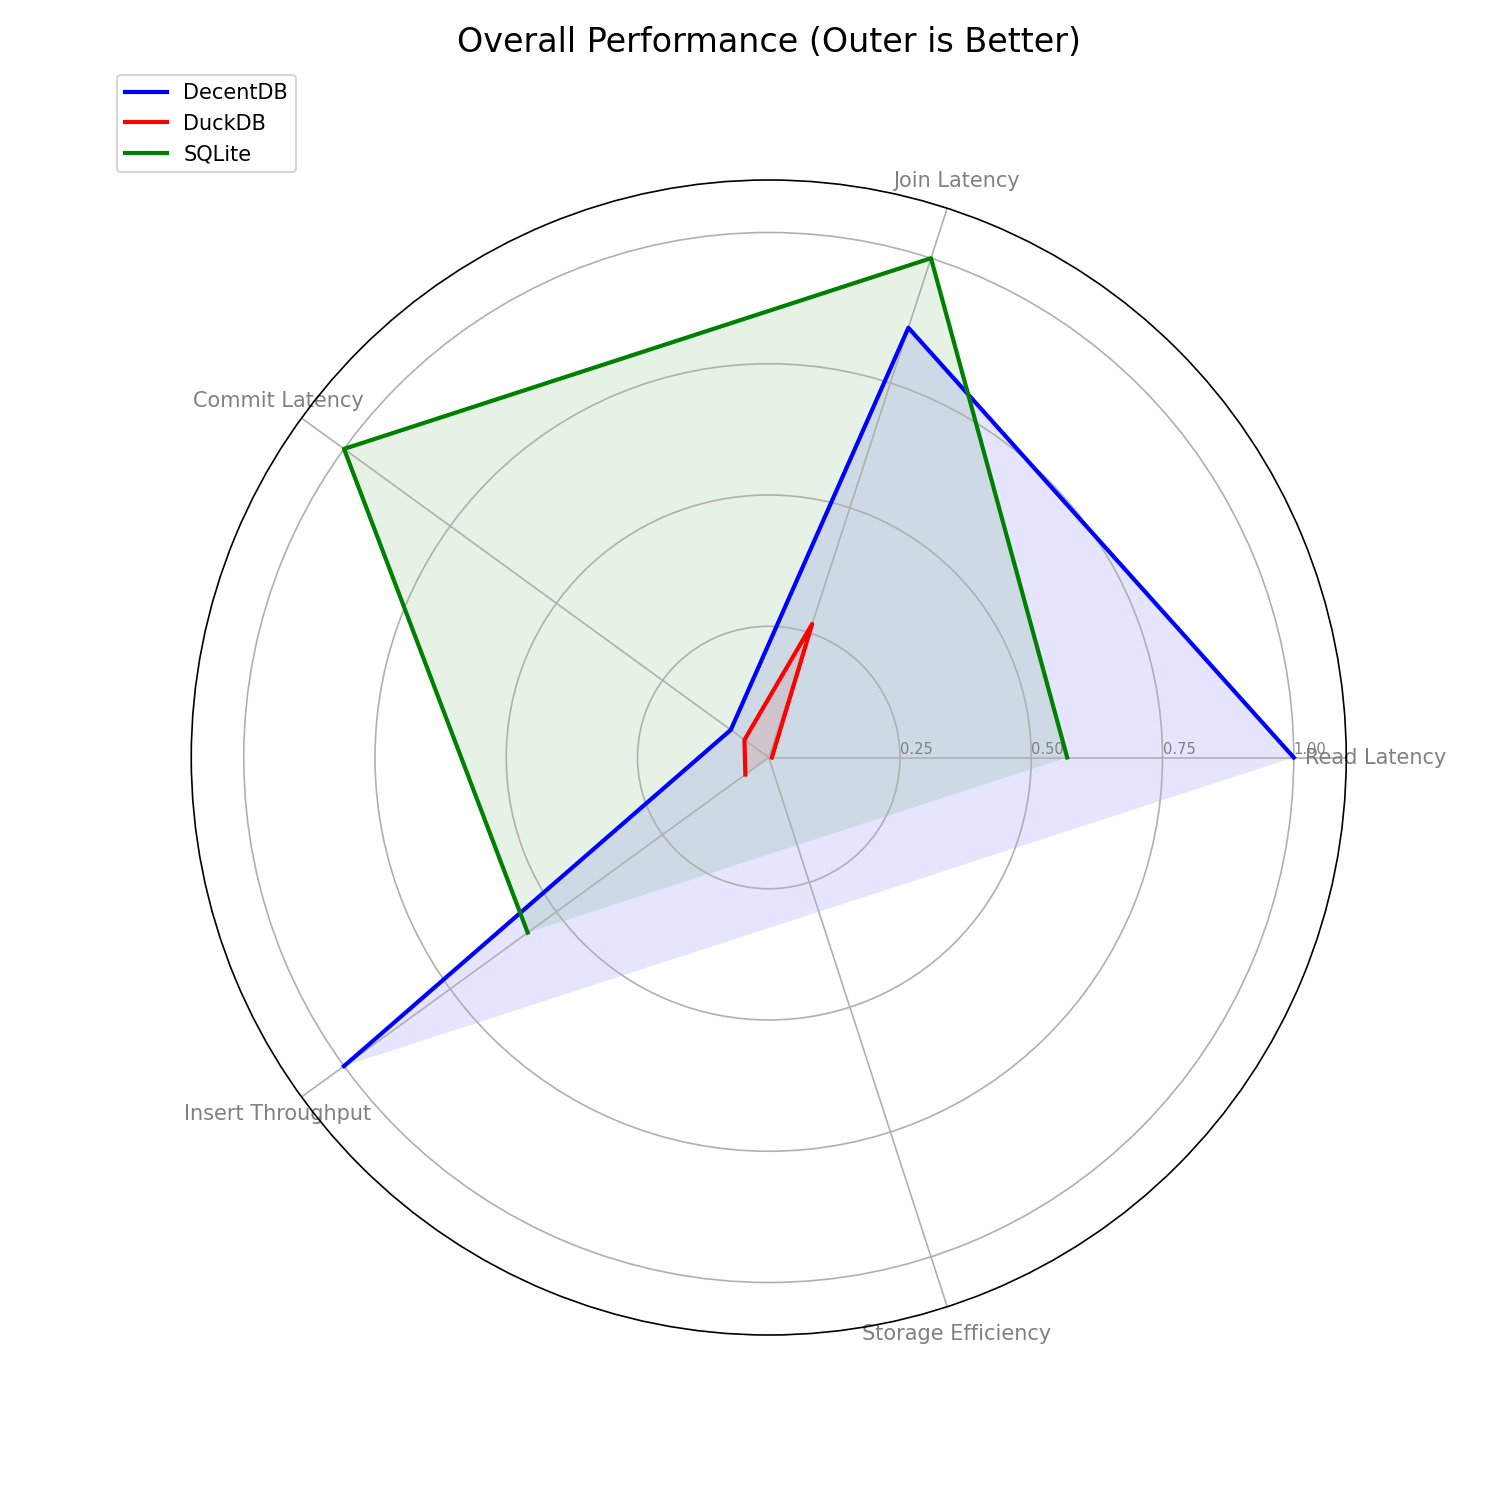
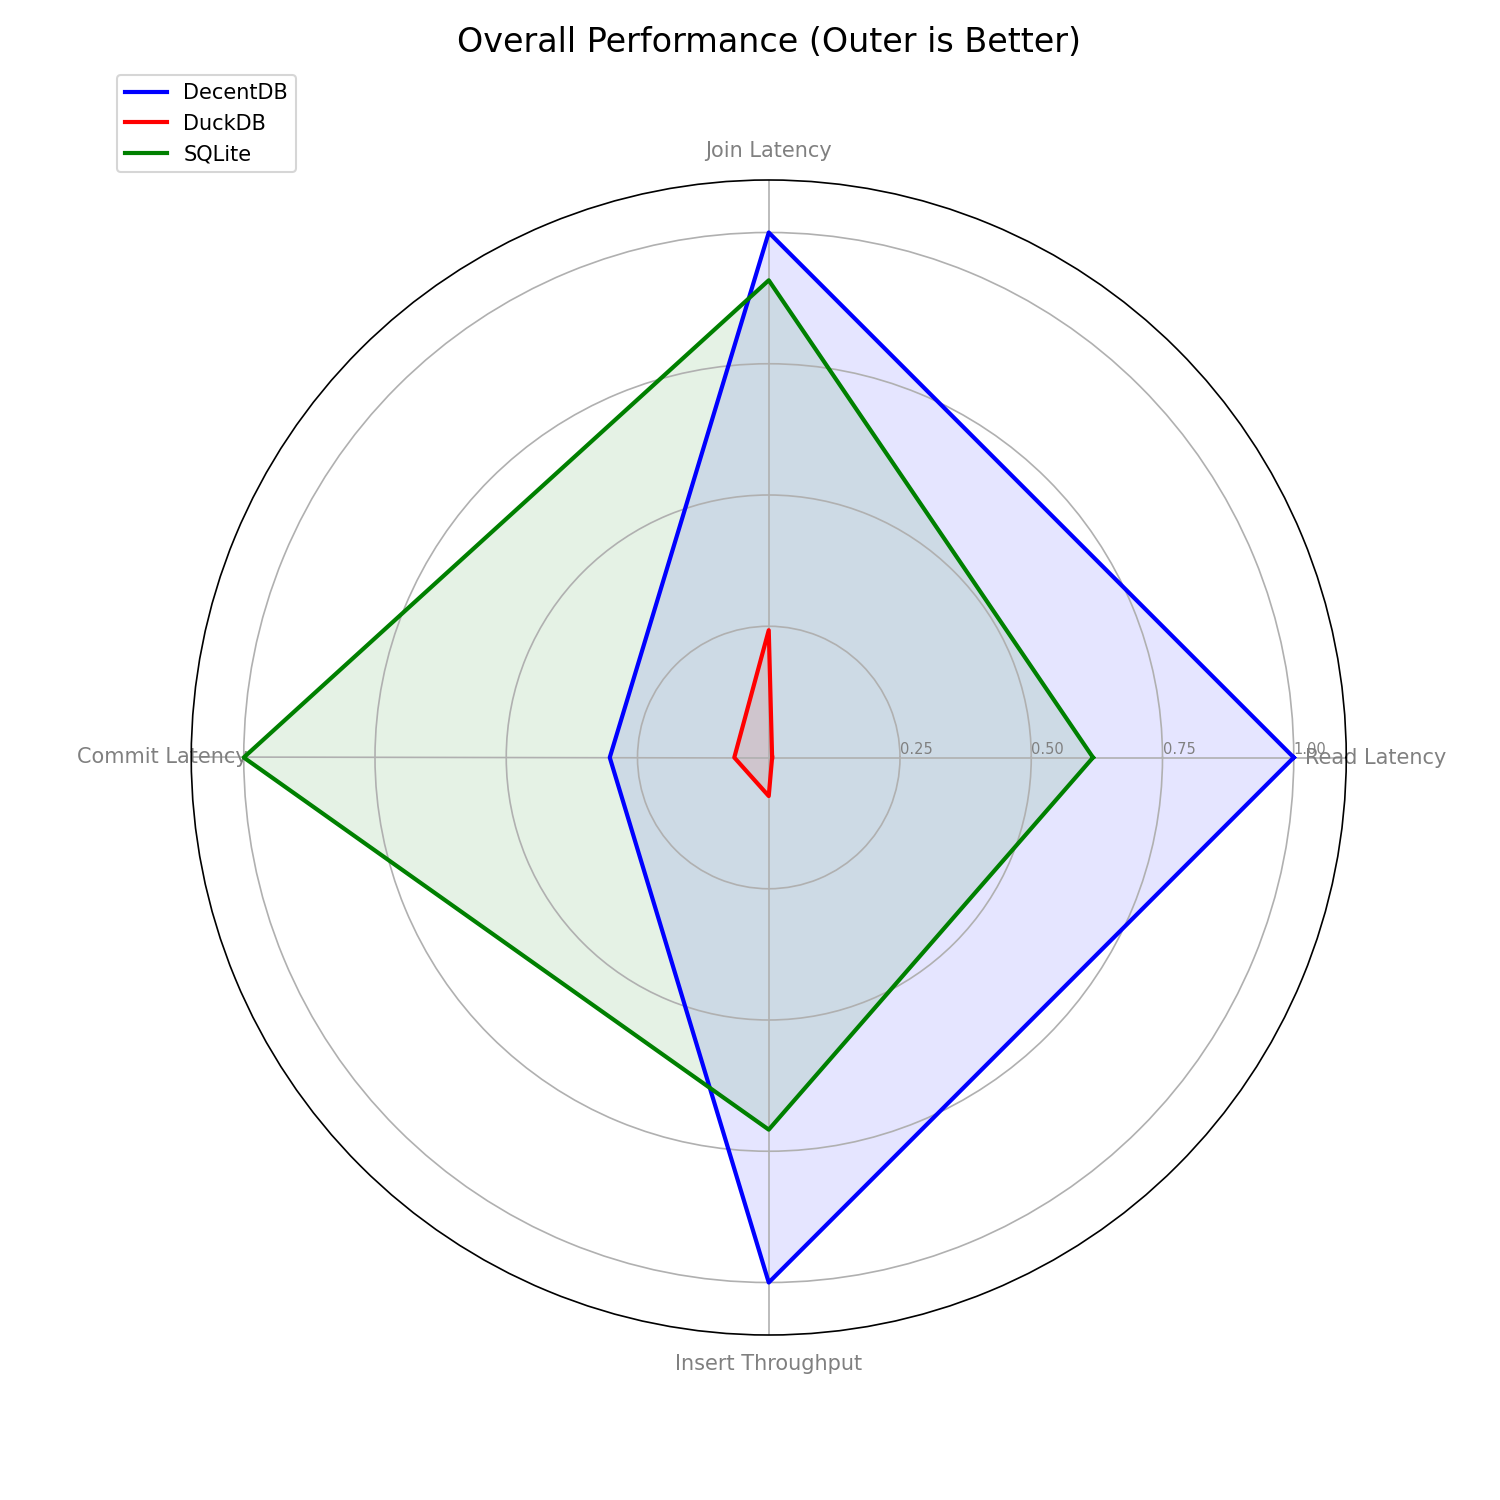
Update benchmark visualizations and data
- Updated SVG and PNG assets for DecentDB benchmarks.
- Modified benchmark summary data to reflect new performance metrics for DecentDB, DuckDB, and SQLite.
- Adjusted visualization script to remove unused metric for storage efficiency.

diff --git a/benchmarks/embedded_compare/scripts/visualize_alternative.py b/benchmarks/embedded_compare/scripts/visualize_alternative.py
@@ -26,7 +26,6 @@ METRICS = [
     ("join_p95_ms", "Join Latency", "lower"),
     ("commit_p95_ms", "Commit Latency", "lower"),
     ("insert_rows_per_sec", "Insert Throughput", "higher"),
-    ("db_size_mb", "Storage Efficiency", "lower"),
 ]
 
 def load_data():
